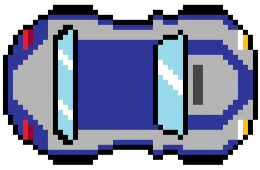
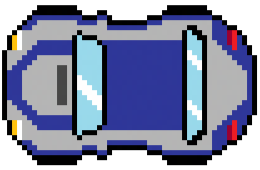
tal vez

diff --git a/main.py b/main.py
@@ -2,7 +2,7 @@ import pygame
 
 from botones import Boton
 from pathlib import Path
-from cars import vehiculo
+from cars import vehiculo, pj
 from enfocate import GameBase, GameMetadata, COLORS
 
 class Game(GameBase):
@@ -24,55 +24,114 @@ class Game(GameBase):
         self.estado = 'start'
         self.estado_prev = None
         self.moviendo = False
-        self.mover = False
         self.cood = ()
         lw=pygame.Rect(360,10,700,90)
         la=pygame.Rect(360,10,45,700)
         ld=pygame.Rect(920,10,50,700)
         ls=pygame.Rect(360,610,700,50)
-        self.mr = self.mv = self.mcr = self.ma = self.mca = self.mcv = self.mg = [lw, la, ld, ls]
+        self.ganar=pygame.Rect(840, 280, 60,60)
+        self.muros = [lw, la, ld, ls]
         self.act_car = None
+        self.load = False
+        self.salir = False
      
     def on_start(self):
         
         self.tablero = pygame.image.load(Path("assets")/"tablero.png").convert_alpha()
         self.tablero = pygame.transform.scale(self.tablero,(600,600))
-        self.camion_r = vehiculo('camionr',(875, 225), Path("assets")/ "camion2.png", (80,250), self.mcr, 'v')
-        self.verde = vehiculo('verde',(445, 180), Path("assets")/ "autoverde2.png",(80,150), self.mv,  'v')
-        self.rojo= vehiculo('rojo',(490,315), Path("assets")/ "rojo2.png",(150,80), self.mr,   'h')
-        dir_jugar= Path("assets")/ "BotonJugar.png"
-        dir_click= Path("Sonido")/"Click.mp3"
-        self.jugar =  Boton(dir_jugar, dir_click, (550, 345), 0.1)
+        
+        self.dir_click= Path("Sonido")/"Click.mp3"
         self.fondo = pygame.image.load("assets//PortadaFinal.png").convert()
-        self.carros = [self.verde,self.camion_r,self.rojo]
-        self.niveles = Boton(Path("assets")/"BotonNiveles.png", Path("Sonido")/"Click.mp3", (550, 445), 0.1)
-        self.salir = Boton(Path("assets")/"BotonSalirRojo.png", Path("Sonido")/"Click.mp3", (550, 545), 0.1)
+
         pygame.mixer.music.load(Path("Sonido")/"Sonidomenu.mp3")
         pygame.mixer.music.play(-1)
+        
         return super().on_start()
         
-    def update(self, dt: float):
+    
+    def victoria(self):
+        print("has ganado")
+    def autos(self):
+        self.camion_r = vehiculo((0, 0), Path("assets")/ "CamionAzul2.png", (80,250), [], 'v')
+        self.morado = vehiculo((0, 0), Path("assets")/ "Automorado2.png",(80,150), [],  'v')
+        self.rojo= pj((0,0), Path("assets")/ "rojo2.png",(150,80), [],   'h', self.ganar)
+        self.negro= vehiculo((0,0), Path("assets")/ "CKcar2.png",(150,80), [],   'h')
+        self.gris= vehiculo((0,0), Path("assets")/ "Autogris2.png",(150,80), [],   'h')
+        self.naranja = vehiculo((0, 0), Path("assets")/ "AutoNaranja2.png",(80,150),[],  'v')
+        self.camion_v = vehiculo((0, 0), Path("assets")/ "CamionVerde2.png", (80,250), [], 'v')
+        self.carros = [self.morado,self.camion_r,self.rojo, self.negro,self.gris,self.naranja, self.camion_v]
+        for iterar in self.carros:
+            iterar.carros.extend(self.carros)
         
+    def boton(self):
+        
+        if self.estado == 'start':
+            self.jugar =  Boton(Path("assets")/ "BotonJugar.png", self.dir_click, (550, 345), 0.1)
+            if self.jugar.es_presionado():
+                self.estado_prev = self.estado
+                self.estado = 'nivel1'
+                self.load = True
+                self.jugar.sound.play()
+            self.niveles = Boton(Path("assets")/"BotonNiveles.png", Path("Sonido")/"Click.mp3", (550, 445), 0.1)
+            if self.niveles.es_presionado():
+                self.estado_prev = self.estado
+                self.estado = 'nivel1'
+                
+                self.jugar.sound.play()
+            self.salir = Boton(Path("assets")/"BotonSalirRojo.png", Path("Sonido")/"Click.mp3", (550, 545), 0.1)
+            if self.salir.es_presionado():
+                self.jugar.sound.play()
+                self._stop_context()
+            self.reiniciar = Boton(Path("assets")/"BotonReiniciar.png", Path("Sonido")/"Click.mp3", (150, 545), 0.1)
+                
+    def update(self, dt: float):
+        if self.estado == 'start':
+            self.boton()
+            self.autos()
+        
+        #NIVEL1#
+        if self.estado == 'nivel1' and self.load == True:
+            self.rojo.forma.center = (580,315)
+            self.morado.forma.center = (530, 520)
+            self.camion_r.forma.center= (875, 480)
+            self.negro.forma.center= (580,405)
+            self.gris.forma.center= (650,570)
+            self.camion_v.forma.center= (700,405)
+            self.load = False
+        
+        if self.estado != 'start' or 'niveles':
+            self.boton()
+    
         if self.moviendo:
             if self.act_car is None:
                 self.moviendo = False
                 return 
-            print(self.cood)
             if self.carros[self.act_car].sen == 'h':
                 old_pos = self.carros[self.act_car].forma.topleft
-                self.mover = True
                 self.carros[self.act_car].forma.move_ip(self.cood[0], 0)
-                print("moviendo")
-                for colision in self.carros[self.act_car].muros:
+                for colision in self.muros:
                     if self.carros[self.act_car].forma.colliderect(colision):
                         self.carros[self.act_car].forma.topleft = old_pos
+                
+                for colision in self.carros[self.act_car].carros:
+                    if colision != self.carros[self.act_car] and self.carros[self.act_car].forma.colliderect(colision.forma):
+                        self.carros[self.act_car].forma.topleft = old_pos
+                
+                if self.carros[self.act_car] == self.rojo:
+                        if self.carros[self.act_car].forma.colliderect(self.carros[self.act_car].victoria):
+                            self.victoria()
                             
             elif self.carros[self.act_car].sen == 'v':
                 old_pos = self.carros[self.act_car].forma.topleft
                 self.carros[self.act_car].forma.move_ip(0, self.cood[1])
-                print("moviendo")
-                for colision in self.carros[self.act_car].muros:
+                
+                for colision in self.muros:
                     if self.carros[self.act_car].forma.colliderect(colision):
+                        self.carros[self.act_car].forma.topleft = old_pos
+                
+                
+                for colision in self.carros[self.act_car].carros:
+                    if colision != self.carros[self.act_car] and self.carros[self.act_car].forma.colliderect(colision.forma):
                         self.carros[self.act_car].forma.topleft = old_pos
             self.moviendo = False
         pass
@@ -89,7 +148,11 @@ class Game(GameBase):
                         for num, carro in enumerate(self.carros):
                             if carro.forma.collidepoint(event.pos):
                                 self.act_car = num
-                       
+                                
+                        if self.reiniciar.es_presionado():
+                            self.reiniciar.sound.play()
+                            self.load = True
+    
                         
                 #Soltar
                 if event.type == pygame.MOUSEBUTTONUP:
@@ -103,10 +166,7 @@ class Game(GameBase):
                         self.moviendo = True
                     
                                             
-                if self.jugar.es_presionado():
-                    self.estado_prev = self.estado
-                    self.estado = 'nivel1'
-                    self.jugar.sound.play()
+                
         
         return super().handle_events(events)   
        
@@ -120,18 +180,15 @@ class Game(GameBase):
             self.surface.blit(self.salir.image, self.salir.rect)
             
         if self.estado == 'nivel1':
-    
             self.surface.blit(self.fondo, (0,0))
             self.surface.blit(self.tablero, (360,50))
             self.surface.blit(self.rojo.image, self.rojo.forma )
-            self.surface.blit(self.verde.image, self.verde.forma)
+            self.surface.blit(self.morado.image, self.morado.forma)
             self.surface.blit(self.camion_r.image, self.camion_r.forma)
-        if self.mover == True:
-            if self.act_car is None:
-                self.mover = False
-                return 
-            self.carros[self.act_car].forma.move_ip(self.cood[0], 0)
-              
+            self.surface.blit(self.negro.image, self.negro.forma )
+            self.surface.blit(self.gris.image, self.gris.forma )
+            self.surface.blit(self.camion_v.image, self.camion_v.forma )
+            self.surface.blit(self.reiniciar.image, self.reiniciar.rect)
 
         
 if __name__ == '__main__':

diff --git a/cars.py b/cars.py
@@ -1,37 +1,21 @@
 import pygame
 
 class vehiculo():
-    def __init__(self, x, y,image, muros,  sen):
+    def __init__(self, posicion,image, escala, carros,  sen):
+        self.carros= carros
         self.sen = sen
-        self.muros = muros
-        self.image = image
-        self.forma= self.image.get_rect(center=(x,y))  
+        self.image = pygame.image.load(image).convert_alpha()
+        self.image = pygame.transform.scale(self.image, escala)
+        self.forma= self.image.get_rect(center=(posicion)) 
         
-    def update(self, x,y):
-        if self.sen == 'h':
-         lista_colisiones = self.colisiones
-         for colisionable in lista_colisiones:
-            if (x > 0):
-                self.forma.right = colisionable.left
-                
-            elif (x < 0):
-                self.forma.left = colisionable.right
-        
-        elif self.sen == 'v':
-        
-         lista_colisiones = self.colisiones
-         for colisionable in lista_colisiones:
-            if (y > 0):
-                self.forma.bottom = colisionable.top
-                
-            elif (y < 0):
-                self.forma.top = colisionable.bottom
-        
+    
+
+class pj(vehiculo):
+    def __init__(self,posicion,image, escala, carros, sen, victoria):
+        super().__init__(posicion, image, escala, carros, sen)
+        self.victoria = victoria
             
-                
-        
-    def dibujar(self, ventana):
-        ventana.blit(self.image, self.forma)
+            
         
         
         

diff --git a/botones.py b/botones.py
@@ -8,10 +8,10 @@ class Boton:
       new_width = int(original_width * scale)
       new_height = int(original_height * scale)
       self.image = pygame.transform.smoothscale(self.image, (new_width, new_height))
-        self.sound = pygame.mixer.Sound(sound_path)
+      self.sound = pygame.mixer.Sound(sound_path)
 
       
-      self.rect = self.image.get_rect(topleft = position)
+      self.rect = self.image.get_rect(topleft = (position))
       self.pressed = False
 
     def draw(self, screen):
@@ -24,7 +24,7 @@ class Boton:
        if self.rect.collidepoint(mouse_pos):
           if mouse_pressed and not self.pressed:
              self.pressed = True
-                self.sound.play()
+             self.sound.play()
              return True
           if not mouse_pressed:
              self.pressed = False

diff --git a/menu.py b/menu.py
@@ -6,7 +6,7 @@ pygame.mixer.init()
 
 screen = pygame.display.set_mode([1280, 720])
 pygame.display.set_caption("Crash")
-fondo = pygame.image.load("PortadaFinal.png").convert()
+fondo = pygame.image.load("assets//PortadaFinal.png").convert()
 jugar = Boton("assets//BotonJugar.png", "Sonido//Click.mp3", (550, 345), 0.1)
 niveles = Boton("assets//BotonNiveles.png", "Sonido//Click.mp3", (550, 445), 0.1)
 salir = Boton("assets//BotonSalirRojo.png", "Sonido//Click.mp3", (550, 545), 0.1)
